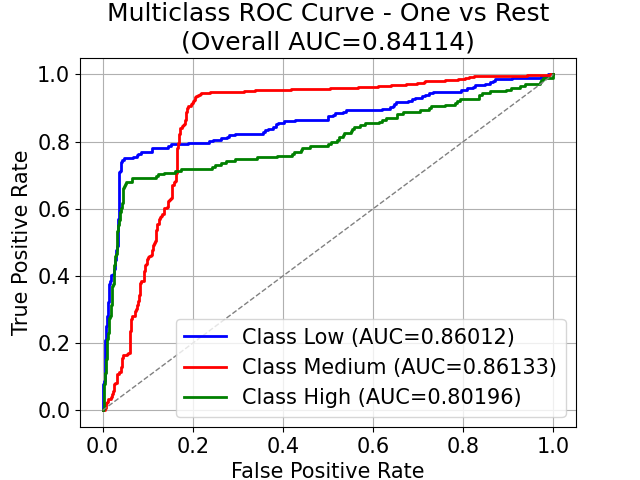
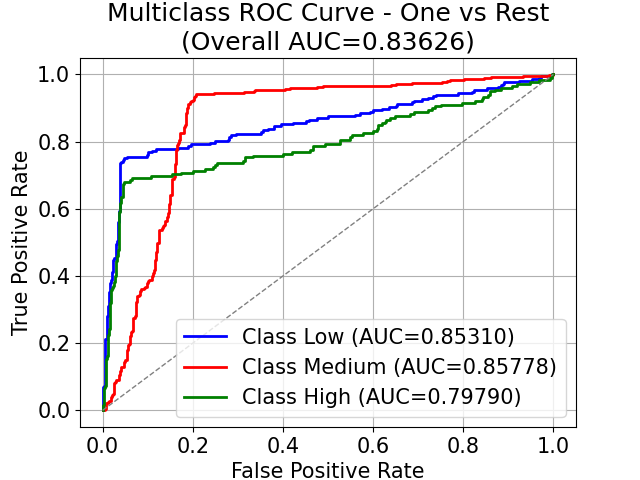
edit

diff --git a/src/.ipynb_checkpoints/ML_modelling-checkpoint.py b/src/.ipynb_checkpoints/ML_modelling-checkpoint.py
@@ -77,9 +77,10 @@ def hyperparameter_tuning(X_train, y_train):
 
 def prediction_results(X_train, X_test, y_train, y_test, best_params_rf, best_params_xgb, best_params_lgbm, model1, model2, model3, charts=False):
     i = 0
+    parameters = [best_params_rf, best_params_xgb, best_params_lgbm]
     for m in [model1,model2,model3]:
         i+=1
-        m.set_params(**best_params_rf)
+        m.set_params(**parameters[i-1])
     
         m.fit(X_train, y_train)
     

diff --git a/src/ML_modelling.py b/src/ML_modelling.py
@@ -77,9 +77,10 @@ def hyperparameter_tuning(X_train, y_train):
 
 def prediction_results(X_train, X_test, y_train, y_test, best_params_rf, best_params_xgb, best_params_lgbm, model1, model2, model3, charts=False):
     i = 0
+    parameters = [best_params_rf, best_params_xgb, best_params_lgbm]
     for m in [model1,model2,model3]:
         i+=1
-        m.set_params(**best_params_rf)
+        m.set_params(**parameters[i-1])
     
         m.fit(X_train, y_train)
     
